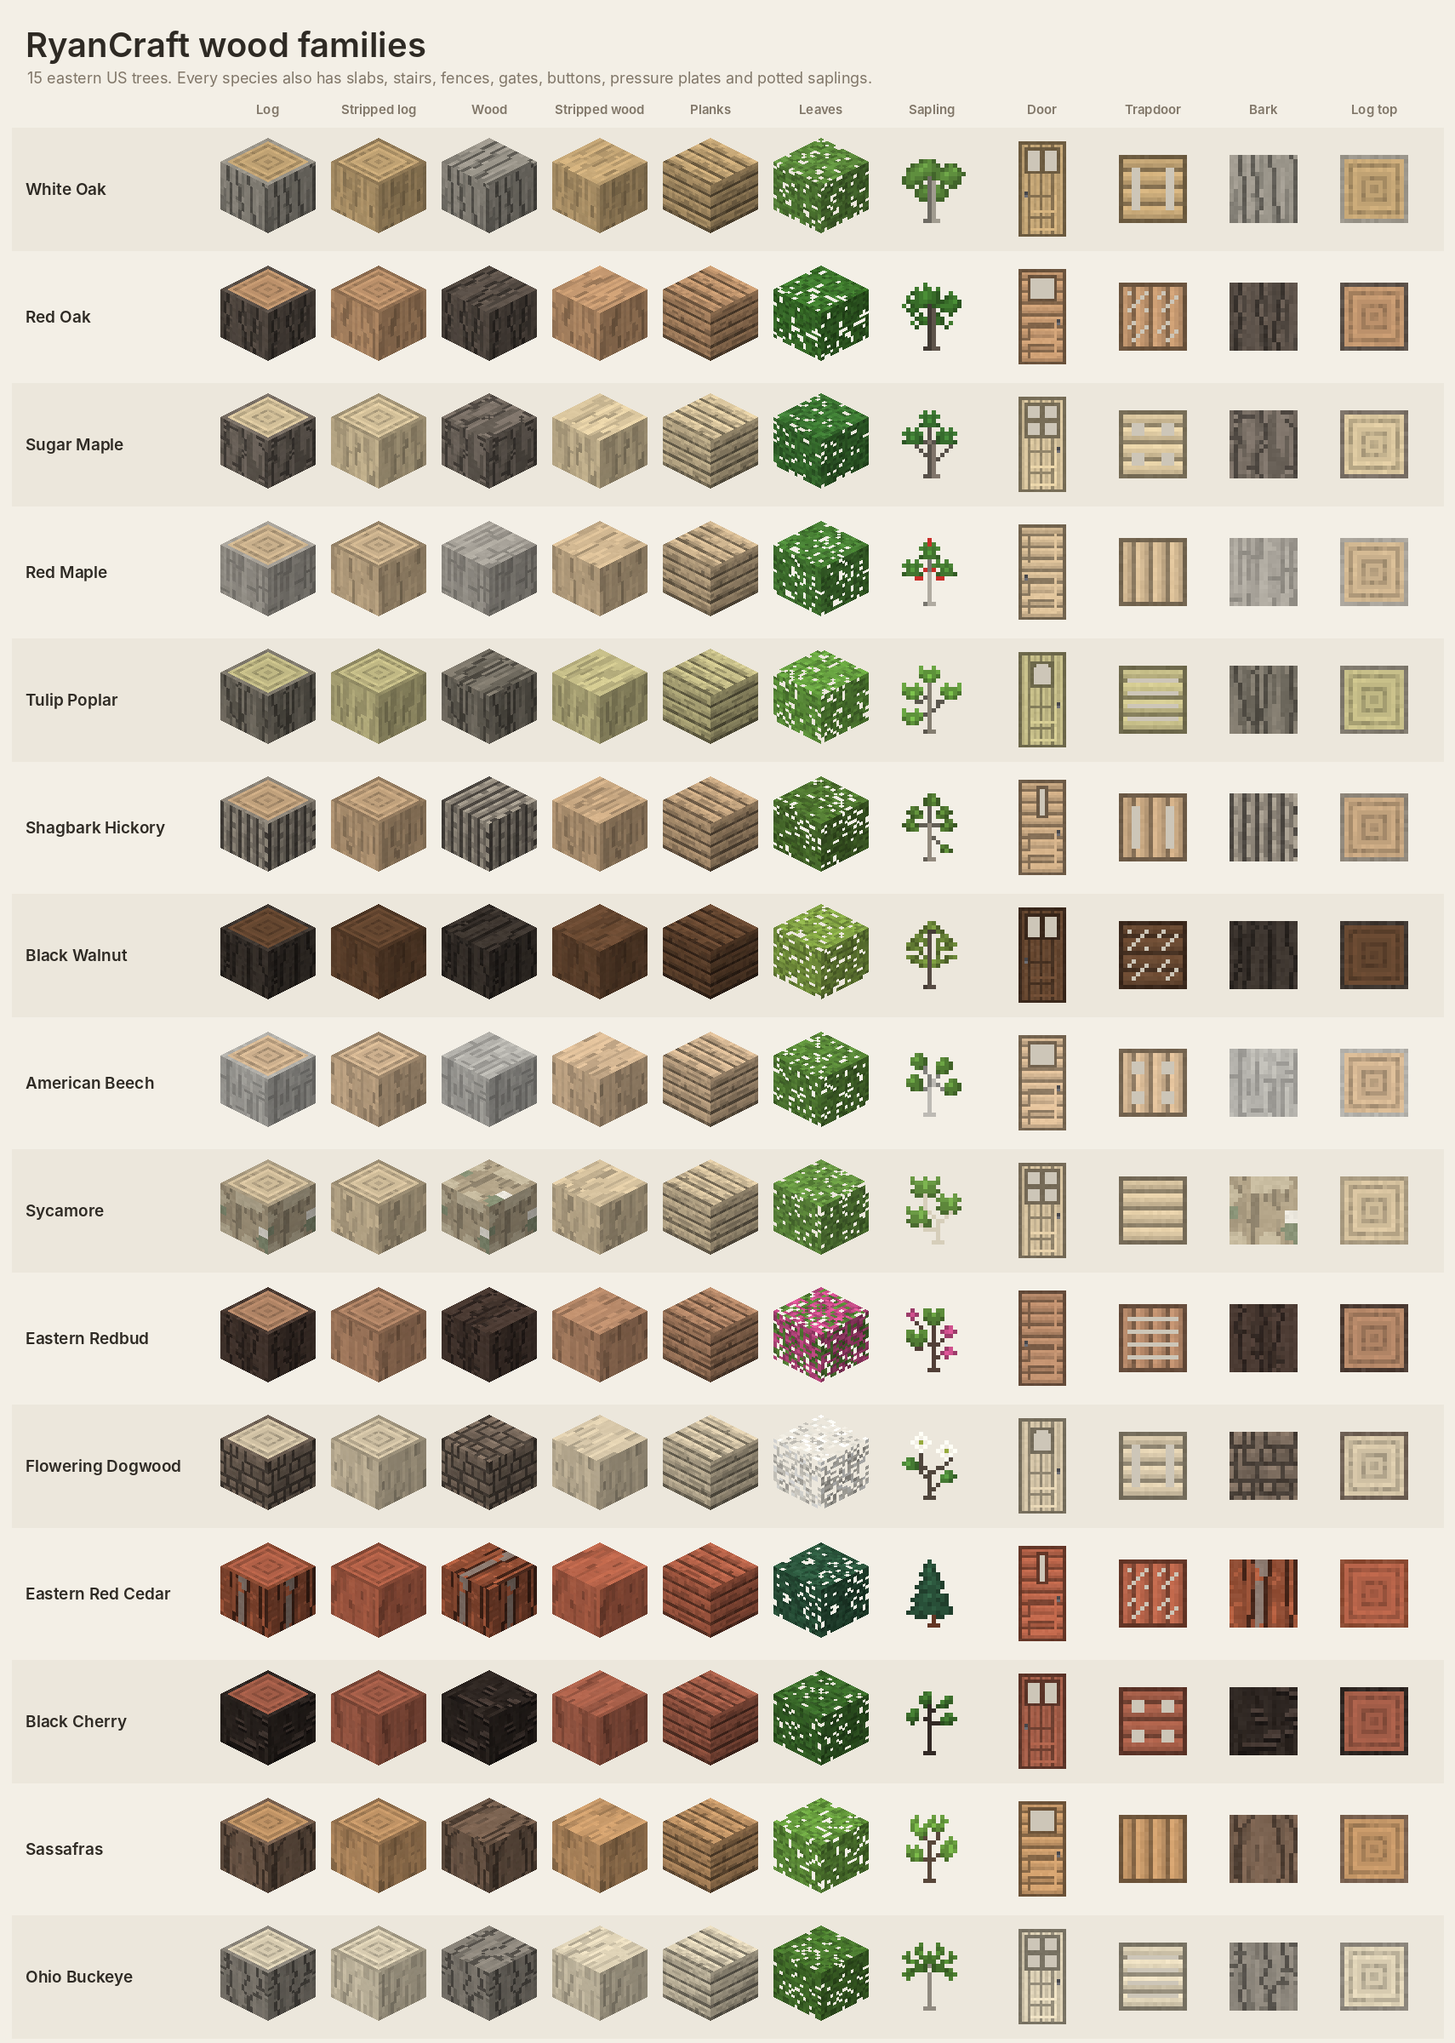
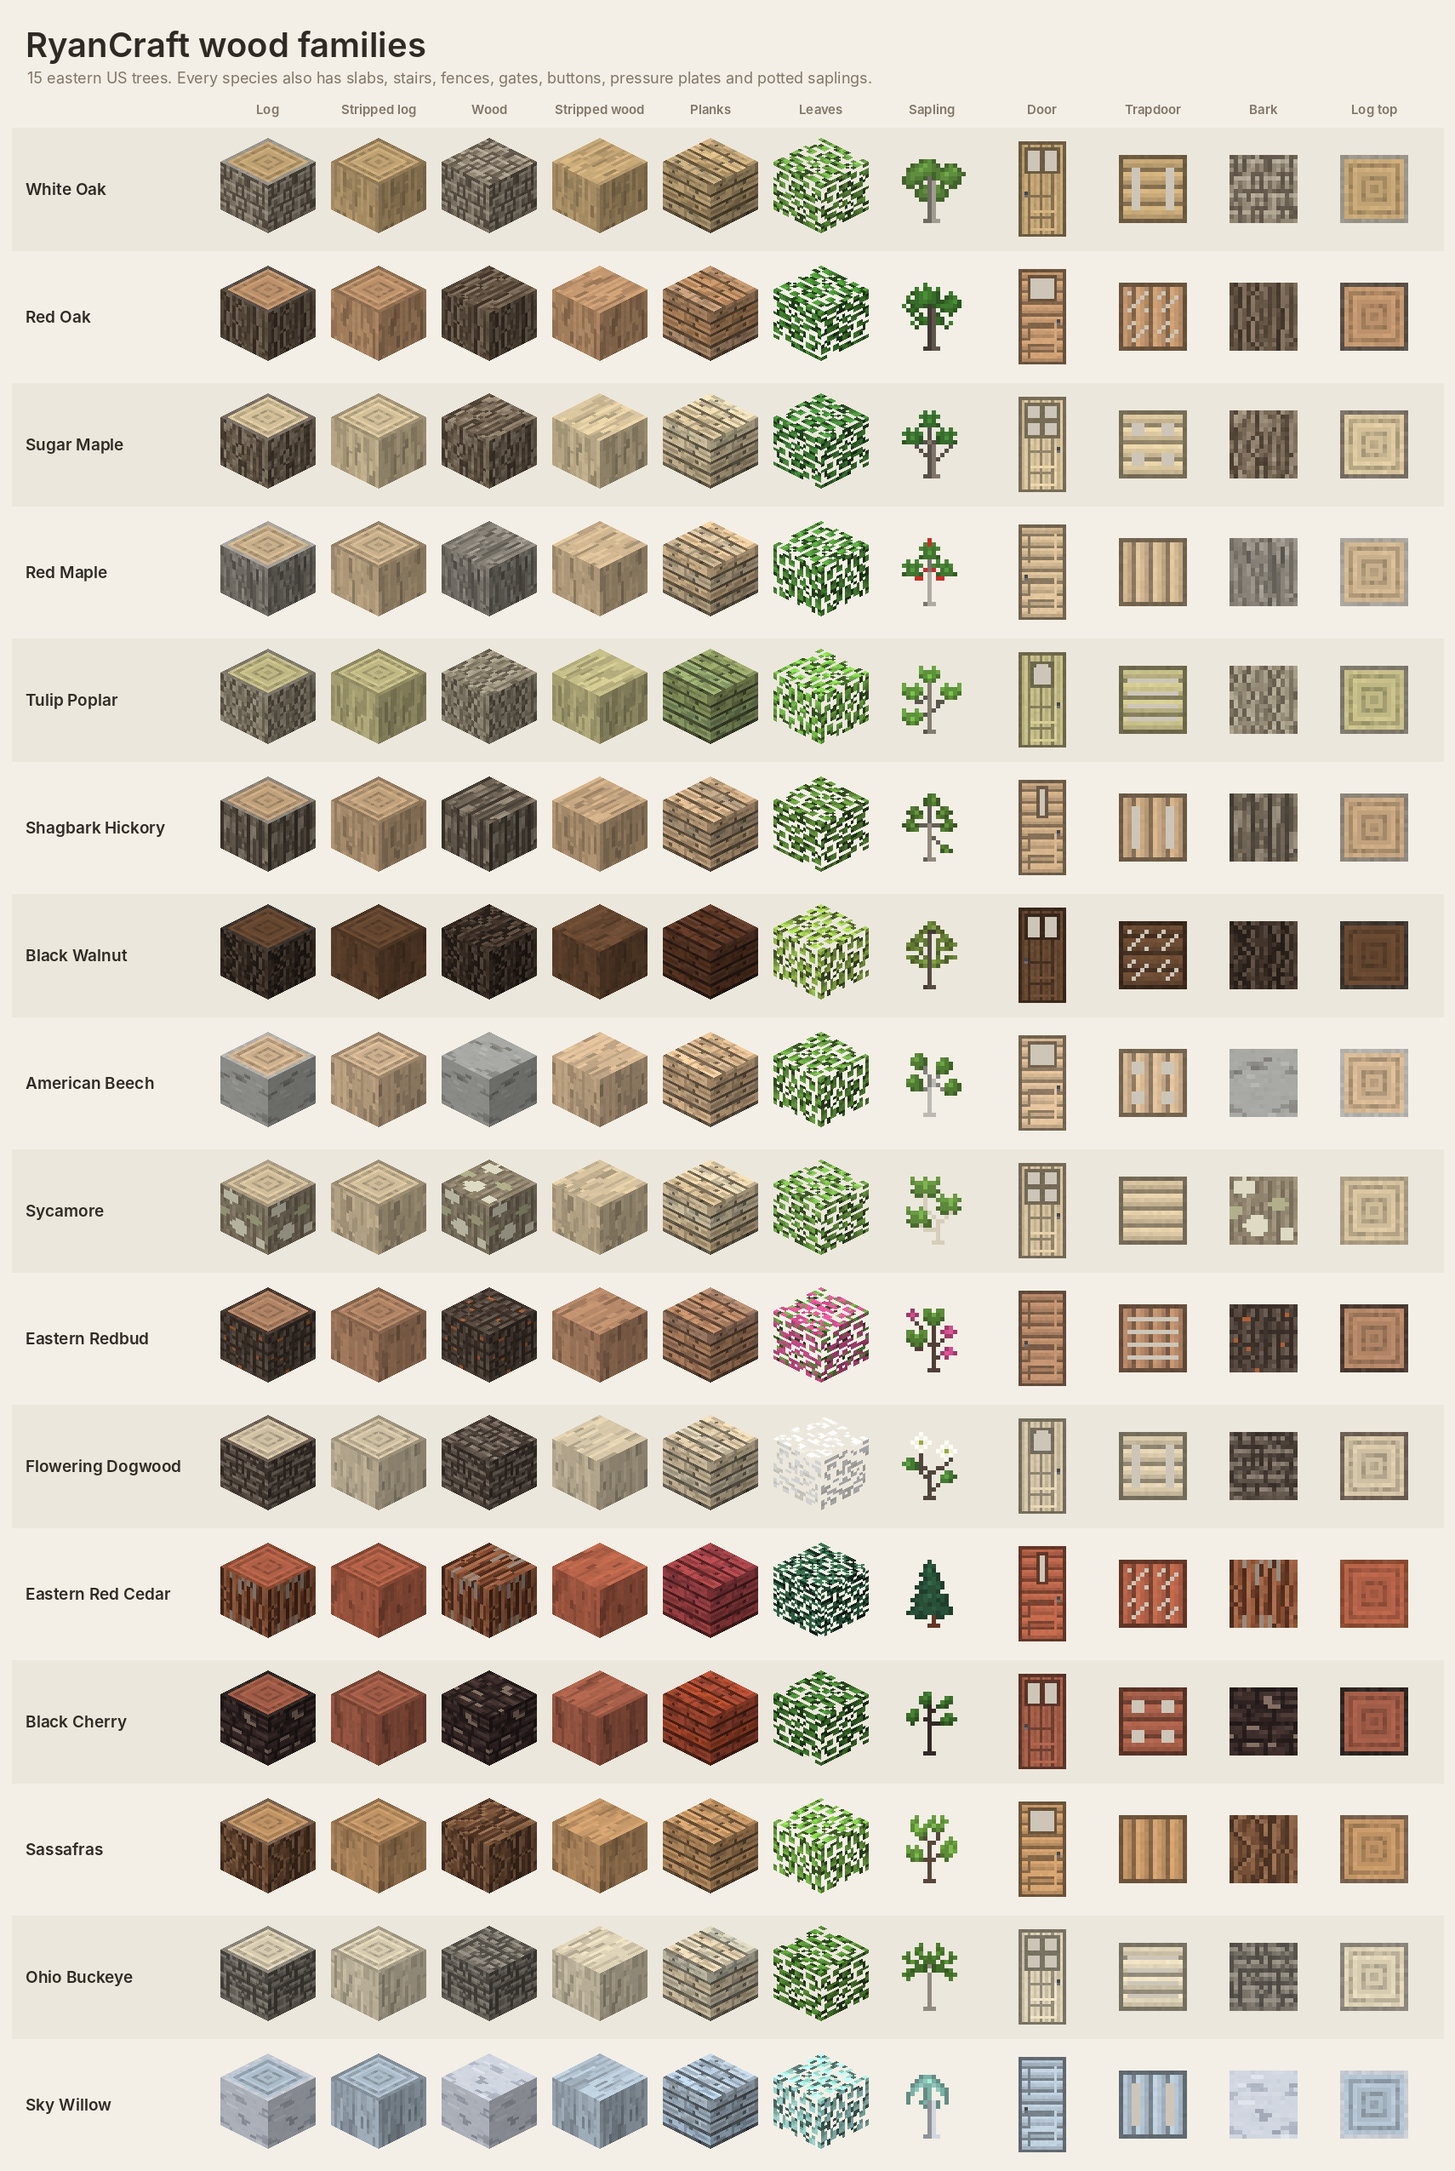
New texture charts drawn from the current art; refreshed field guides
docs_charts.py builds charts for ores and metals, food, the Skylands, the moon,
tree textures, gear and spawn eggs. The old moon chart (with its 'reply with
numbers' heading) is gone, and the field guides and wood sheet are re-rendered.
The wiki pages show the new charts.

Claude-Session: https://claude.ai/code/session_01M5QtgiQGYPBXfdb72XCowG

diff --git a/tools/docs_charts.py b/tools/docs_charts.py
@@ -1,0 +1,181 @@
+"""Texture charts for the front page and the wiki, drawn from the mod's current textures (so rerun after art changes):
+  docs/chart_ores.png      metals, gems and steel: ores, raw, ingots, nuggets and blocks
+  docs/chart_food.png      crops, seeds, dishes, meats and fish
+  docs/chart_skylands.png  skystone, sky willow, flowers, zephyrite and its gear
+  docs/chart_moon.png      moon stone, meteor iron and jade
+  docs/chart_trees.png     every tree's bark, log end, stripped log, planks, leaves and sapling
+  docs/chart_gear.png      the new tools and armour
+  docs/chart_eggs.png      every spawn egg
+  python3 tools/docs_charts.py"""
+import colorsys, json, os
+from PIL import Image, ImageDraw, ImageFont
+
+HERE = os.path.dirname(os.path.abspath(__file__)); ROOT = os.path.join(HERE, "..")
+A = os.path.join(ROOT, "src/main/resources/assets/ryancraft"); T = os.path.join(A, "textures"); DOCS = os.path.join(ROOT, "docs")
+BG, INK, SUB, CARD = (243, 239, 230), (46, 42, 36), (120, 112, 100), (229, 223, 210)
+FOLIAGE = (100, 168, 58)
+
+def font(sz, bold=False):
+    for f in (["/usr/share/fonts/opentype/inter/Inter-SemiBold.otf"] if bold else ["/usr/share/fonts/opentype/inter/Inter-Regular.otf"]) + ["/usr/share/fonts/truetype/dejavu/DejaVuSans.ttf"]:
+        if os.path.exists(f): return ImageFont.truetype(f, sz)
+    return ImageFont.load_default()
+
+def tex(path):
+    """A 16x16 texture by path ('block/x' or 'item/x'), or by bare name (item first, then block). Grey leaves get tinted."""
+    cands = [path] if "/" in path else ["item/" + path, "block/" + path]
+    for c in cands:
+        p = os.path.join(T, c + ".png")
+        if os.path.exists(p):
+            im = Image.open(p).convert("RGBA"); im = im.crop((0, 0, im.width, im.width))      # first frame of animations
+            if "leaves" in c and grey(im): im = tint(im, FOLIAGE)
+            return im
+    via = model_texture(path.split("/")[-1])
+    if via: return tex(via)
+    raise FileNotFoundError(path)
+
+def model_texture(i):
+    """The texture an item's model draws with, for items whose picture isn't named after them."""
+    try:
+        m = json.load(open(os.path.join(A, "items", i + ".json")))["model"]
+        while "model" in m and isinstance(m["model"], dict): m = m["model"]
+        if "model" not in m: m = (m.get("cases") or [{}])[0].get("model", m.get("fallback", {}))
+        ref = m["model"].split(":")[-1]
+        for _ in range(4):
+            mj = json.load(open(os.path.join(A, "models", ref + ".json"))); t = mj.get("textures", {})
+            for k in ("layer0", "all", "side", "cross", "top", "particle"):
+                if k in t and not t[k].startswith("#") and t[k].startswith("ryancraft:"): return t[k].split(":")[-1]
+            ref = mj.get("parent", "").split(":")[-1]
+            if not ref or not os.path.exists(os.path.join(A, "models", ref + ".json")): break
+    except Exception:
+        pass
+    return None
+
+def grey(im):
+    px = [p for p in im.getdata() if p[3]]
+    return px and sum(colorsys.rgb_to_hsv(*[c / 255 for c in p[:3]])[1] for p in px) / len(px) < 0.12
+
+def tint(im, c):
+    out = im.copy(); po = out.load()
+    for y in range(im.height):
+        for x in range(im.width):
+            r, g, b, a = po[x, y]; po[x, y] = (r * c[0] // 255, g * c[1] // 255, b * c[2] // 255, a)
+    return out
+
+def chart(out, title, subtitle, sections, cols=8, ts=112, cw=172, ch=176):
+    """sections: [(heading or None, [(label, texture), ...]), ...]. Blocks are shown 2x2-tiled so seams show; items on a card."""
+    h = 110 + sum((48 if hd else 0) + ((len(items) + cols - 1) // cols) * ch for hd, items in sections) + 20
+    img = Image.new("RGB", (cols * cw + 40, h), BG); d = ImageDraw.Draw(img)
+    d.text((24, 22), title, font=font(34, True), fill=INK); d.text((26, 68), subtitle, font=font(17), fill=SUB)
+    y = 110
+    for hd, items in sections:
+        if hd: d.text((24, y + 8), hd, font=font(22, True), fill=INK); y += 48
+        for k, (label, path) in enumerate(items):
+            x, yy = 20 + (k % cols) * cw, y + (k // cols) * ch
+            try: t = tex(path)
+            except FileNotFoundError: print("  (no texture for", path + ")"); continue
+            if path.startswith("block/") and "sapling" not in path and t.getpixel((0, 0))[3] == 255:
+                tile = Image.new("RGBA", (32, 32))
+                for a in (0, 16):
+                    for b in (0, 16): tile.paste(t.resize((16, 16), Image.NEAREST), (a, b))
+                big = tile.resize((ts, ts), Image.NEAREST)
+            else:
+                card = Image.new("RGBA", (16, 16), CARD + (255,)); card.alpha_composite(t.resize((16, 16), Image.NEAREST)); big = card.resize((ts, ts), Image.NEAREST)
+            img.paste(big.convert("RGB"), (x + (cw - ts) // 2, yy))
+            lines = wrap(label, 18)
+            for i, ln in enumerate(lines): d.text((x + cw // 2, yy + ts + 16 + i * 19), ln, font=font(15, True), fill=INK, anchor="mm")
+        y += ((len(items) + cols - 1) // cols) * ch
+    img.save(os.path.join(DOCS, out)); print("wrote", out, img.size)
+
+def wrap(s, n):
+    words, lines = s.split(), [""]
+    for w in words:
+        if len(lines[-1]) + len(w) + 1 > n and lines[-1]: lines.append(w)
+        else: lines[-1] = (lines[-1] + " " + w).strip()
+    return lines[:2]
+
+def lang():
+    return json.load(open(os.path.join(A, "lang/en_us.json")))
+
+def name(L, i):
+    return L.get("item.ryancraft." + i) or L.get("block.ryancraft." + i) or i.replace("_", " ").title()
+
+def main():
+    L = lang()
+    metals = ["silver", "lead", "tin", "zinc", "aluminum", "uranium"]
+    sec = []
+    for m in metals:
+        sec.append((name(L, m + "_ingot").replace(" Ingot", ""), [(name(L, n), p) for n, p in (
+            (f"{m}_ore", f"block/{m}_ore"), (f"deepslate_{m}_ore", f"block/deepslate_{m}_ore"), (f"raw_{m}", f"item/raw_{m}"),
+            (f"raw_{m}_block", f"block/raw_{m}_block"), (f"{m}_ingot", f"item/{m}_ingot"), (f"{m}_nugget", f"item/{m}_nugget"),
+            (f"{m}_block", f"block/{m}_block"), (f"chiseled_{m}", f"block/chiseled_{m}"))]))
+    sec.append(("Gems", [(name(L, n), p) for n, p in (("ruby_ore", "block/ruby_ore"), ("deepslate_ruby_ore", "block/deepslate_ruby_ore"),
+        ("ruby", "item/ruby"), ("ruby_block", "block/ruby_block"), ("sapphire_ore", "block/sapphire_ore"),
+        ("deepslate_sapphire_ore", "block/deepslate_sapphire_ore"), ("sapphire", "item/sapphire"), ("sapphire_block", "block/sapphire_block"),
+        ("jade_ore", "block/jade_ore"), ("deepslate_jade_ore", "block/deepslate_jade_ore"), ("jade", "item/jade"), ("jade_block", "block/jade_block"))]))
+    sec.append(("Steel and tarnished silver", [(name(L, n), "block/" + n) for n in ("steel_block", "cut_steel", "steel_plating", "chiseled_steel",
+        "silver_block", "dulled_silver_block", "tarnished_silver_block", "blackened_silver_block") if os.path.exists(os.path.join(T, "block", n + ".png"))]
+        + [(name(L, "steel_ingot"), "item/steel_ingot")]))
+    chart("chart_ores.png", "Ores, metals and gems", "Six new metals, three gems and steel, as they look in game (blocks shown 2x2).", sec)
+
+    crops = ["tomato", "pepper", "corn", "squash", "cabbage", "onion", "beans", "rice"]
+    seeds = [c + "_seeds" for c in crops if os.path.exists(os.path.join(T, "item", c + "_seeds.png"))]
+    dishes = ["roasted_corn", "baked_squash", "stuffed_pepper", "cabbage_roll", "sandwich", "garden_salad", "cornbread", "cherry_pie",
+              "cherries", "black_walnut", "shelled_walnut", "moon_cake"]
+    meats = ["venison", "cooked_venison", "raw_turkey", "cooked_turkey", "raw_duck", "cooked_duck"]
+    fish = ["bluegill", "crappie", "yellow_perch", "largemouth_bass", "smallmouth_bass", "rainbow_trout", "walleye", "channel_catfish",
+            "northern_pike", "muskellunge"]
+    chart("chart_food.png", "Food", "Seasonal crops, the dishes they make, game meats and freshwater fish.", [
+        ("Crops", [(name(L, c), "item/" + c) for c in crops]),
+        ("Seeds", [(name(L, s), "item/" + s) for s in seeds]),
+        ("Crops growing", [(name(L, c), f"block/{c}_stage3") for c in crops if os.path.exists(os.path.join(T, "block", c + "_stage3.png"))]),
+        ("Dishes and treats", [(name(L, x), x) for x in dishes]),
+        ("Game meats", [(name(L, x), x) for x in meats]),
+        ("Freshwater fish", [(name(L, x), x) for x in fish])])
+
+    sky = [("skystone", "block/skystone"), ("zephyrite_ore", "block/zephyrite_ore"), ("zephyrite", "item/zephyrite"), ("zephyrite_block", "block/zephyrite_block"),
+           ("zephyr_vent", "block/zephyr_vent_hole"), ("roc_egg", "roc_egg")]
+    willow = [("sky_willow_log", "block/sky_willow_log"), ("sky_willow_log", "block/sky_willow_log_top"), ("stripped_sky_willow_log", "block/stripped_sky_willow_log"),
+              ("sky_willow_planks", "block/sky_willow_planks"), ("sky_willow_leaves", "block/sky_willow_leaves"), ("sky_willow_sapling", "block/sky_willow_sapling"),
+              ("sky_willow_door", "item/sky_willow_door"), ("sky_willow_trapdoor", "block/sky_willow_trapdoor")]
+    flowers = ["windflower", "cloudbloom", "sunpetal", "sky_bell"]
+    gear = ["sword", "pickaxe", "axe", "shovel", "hoe", "helmet", "chestplate", "leggings", "boots"]
+    chart("chart_skylands.png", "The Skylands", "Blocks, plants and zephyrite gear from the floating islands.", [
+        ("Stone and zephyrite", [(name(L, n), p) for n, p in sky]),
+        ("Sky willow", [(name(L, n) + (" (end)" if p.endswith("_top") else ""), p) for n, p in willow]),
+        ("Sky flowers", [(name(L, f), "block/" + f) for f in flowers]),
+        ("Zephyrite gear", [(name(L, "zephyrite_" + g), "item/zephyrite_" + g) for g in gear])], cols=9)
+
+    moon = ["moon_dust", "moonstone", "cobbled_moonstone", "polished_moonstone", "moonstone_bricks", "cracked_moonstone_bricks", "chiseled_moonstone_bricks",
+            "deep_moonstone", "cobbled_deep_moonstone", "polished_deep_moonstone", "deep_moonstone_bricks"]
+    ores = ["meteor_iron_ore", "deep_meteor_iron_ore", "raw_meteor_iron", "raw_meteor_iron_block", "meteor_iron_ingot", "meteor_iron_block",
+            "moonstone_jade_ore", "deep_moonstone_jade_ore"]
+    life = ["moon_herb", "moon_cake", "jade_crown", "moon_mortar"]
+    chart("chart_moon.png", "The Moon", "Moonstone, deep moonstone, meteor iron and moon jade, and what the moon gives you.", [
+        ("Stone", [(name(L, n), "block/" + n) for n in moon]),
+        ("Meteor iron and jade", [(name(L, n), ("item/" if n in ("raw_meteor_iron", "meteor_iron_ingot") else "block/") + n) for n in ores]),
+        ("Meteor iron gear", [(name(L, "meteor_iron_" + g), "item/meteor_iron_" + g) for g in gear]),
+        ("Finds", [(name(L, n), n) for n in life])], cols=9)
+
+    species = ["white_oak", "red_oak", "sugar_maple", "red_maple", "tulip_poplar", "shagbark_hickory", "black_walnut", "american_beech", "sycamore",
+               "eastern_redbud", "flowering_dogwood", "eastern_red_cedar", "black_cherry", "sassafras", "ohio_buckeye"]
+    rows = []
+    for s in species:
+        t = name(L, s + "_planks").replace(" Planks", "")
+        rows.append((t, [("Bark", f"block/{s}_log"), ("Log end", f"block/{s}_log_top"), ("Stripped", f"block/stripped_{s}_log"),
+                         ("Planks", f"block/{s}_planks"), ("Leaves", f"block/{s}_leaves"), ("Sapling", f"block/{s}_sapling")]))
+    chart("chart_trees.png", "Fifteen eastern trees", "Bark, log end, stripped log, planks, leaves (shown in summer green) and sapling for each species.",
+          rows, cols=6, ts=96, cw=150, ch=150)
+
+    chart("chart_gear.png", "Tools and armour", "Lead (iron tier, heavy), zephyrite (iron tier, feather-falling boots) and meteor iron (diamond tier).", [
+        (name(L, m + "_ingot").replace(" Ingot", ""), [(name(L, f"{m}_{g}"), f"item/{m}_{g}") for g in gear]) for m in ("lead", "zephyrite", "meteor_iron")]
+        + [("Also", [(name(L, n), "item/" + n) for n in ("coonskin_cap", "musket", "musket_ball", "cannonball", "grapeshot", "chain_shot",
+                                                          "canister_shot", "heated_shot", "explosive_shell") if os.path.exists(os.path.join(T, "item", n + ".png"))])], cols=9)
+
+    eggs = sorted(f[:-4] for f in os.listdir(os.path.join(T, "item")) if f.endswith("_spawn_egg.png"))
+    mud = [e for e in eggs if e.startswith("mudling_")]; rest = [e for e in eggs if e not in mud]
+    chart("chart_eggs.png", "Spawn eggs", "One for every RyanCraft mob, and one for each mudling kind.", [
+        ("Animals", [(name(L, e).replace(" Spawn Egg", ""), "item/" + e) for e in rest]),
+        ("Mudlings", [(name(L, e).replace(" Spawn Egg", ""), "item/" + e) for e in mud])], cols=10, ts=80, cw=136, ch=134)
+
+if __name__ == "__main__":
+    main()

diff --git a/docs/wiki/Trees.md b/docs/wiki/Trees.md
@@ -15,6 +15,8 @@ Each has a **full wood set**: log, wood, stripped log and wood, planks, stairs, 
 trapdoor, button, pressure plate, sign, leaves and sapling (saplings can be potted). Every tree has its own crown
 shape and bark, and the broadleaf trees change colour through the [seasons](Seasons.md).
 
+![Tree textures](../chart_trees.png)
+
 **Fruit and nuts**: black cherry trees drop cherries (bake a cherry pie), and black walnut trees drop black walnuts
 (shell them for shelled walnuts). Squirrels drop walnuts sometimes too.
 

diff --git a/docs/wiki/Moon.md b/docs/wiki/Moon.md
@@ -34,7 +34,7 @@ Rolling dusty plains under a starry black sky. **Moon dust** falls like sand, an
 brick, cracked and chiseled, with stairs, slabs and walls. Below about y=32 is **deep moonstone**. Caves, old lava
 tubes and ravines run through the stone down to bedrock at y=0.
 
-![Moon blocks](../moon_blocks.png)
+![Moon blocks and finds](../chart_moon.png)
 
 **Meteor iron** ore glows faintly in the caves. Smelt it into ingots for diamond-tier tools and armour.
 

diff --git a/docs/wiki/Skylands.md b/docs/wiki/Skylands.md
@@ -27,7 +27,7 @@ with Slow Falling to land safely.
 Mined from Skylands ore. Zephyrite tools and armour are iron-tier and a little easier to enchant. The **boots stop
 fall damage**, and a **full set lets you glide** down slowly while you hold sneak.
 
-![Zephyrite gear](../zephyrite_gear.png)
+![Skylands blocks and zephyrite gear](../chart_skylands.png)
 
 ## Animals
 

diff --git a/docs/wiki/Combat.md b/docs/wiki/Combat.md
@@ -35,6 +35,8 @@ a loud crack, a cloud of smoke and a hard-hitting ball that wanders off line pas
 
 ## Armour and tools
 
+![Tools and armour](../chart_gear.png)
+
 | Material | Tier | Special |
 |---|---|---|
 | Lead | Iron | Harder to enchant. Heavy armour that shrugs off a little knockback |

diff --git a/docs/wiki/Wildlife.md b/docs/wiki/Wildlife.md
@@ -83,3 +83,5 @@ Freshwater game fish have [their own page](Fishing.md).
 
 Every animal has a spawn egg in the Spawn Eggs creative tab, and so does each of the 13 [mudling](Mudlings.md)
 kinds.
+
+![Spawn eggs](../chart_eggs.png)

diff --git a/docs/wiki/Ores.md b/docs/wiki/Ores.md
@@ -2,6 +2,8 @@
 
 # Ores, Metals and Gems
 
+![Ores, metals and gems](../chart_ores.png)
+
 ## Metals
 
 Each metal has stone and deepslate ore, raw metal, an ingot, a nugget, a block of raw metal, a block and a chiseled

diff --git a/docs/wiki/Cooking.md b/docs/wiki/Cooking.md
@@ -2,6 +2,8 @@
 
 # Cooking and Farming
 
+![Food](../chart_food.png)
+
 ## The cooking pot
 
 **Recipe:** iron ingots in a U shape (`I I / I I / III`).
